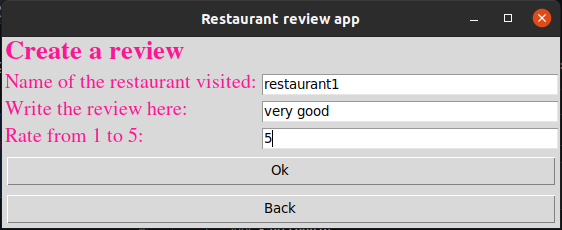
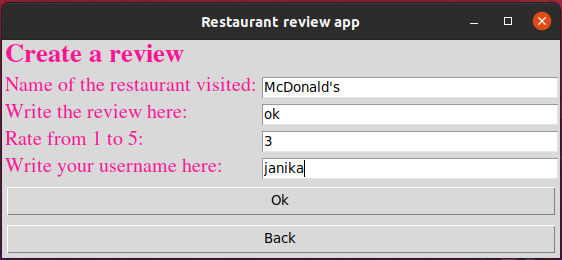
kuvia

Changed region(s): [[0.0, 0.0, 1.0, 1.0], [0.363, 0.0609, 0.6352, 0.1217]]

diff --git a/src/tests/test_services/test_service.py b/src/tests/test_services/test_service.py
@@ -7,6 +7,7 @@ from services.service import (
 )
 from entities.review import Review
 
+
 class FakeUserRepository:
     def __init__(self, users=None):
         self.users = users or []
@@ -31,6 +32,7 @@ class FakeUserRepository:
 
     def delete_all(self):
         self.users = []
+
 
 class FakeReviewRepository:
     def __init__(self, reviews=None):
@@ -65,7 +67,8 @@ class TestService(unittest.TestCase):
         )
 
         self.user_janika = User("janika", "abc123")
-        self.review_restaurant1 = Review("restaurant1", "nice", "3", self.user_janika)
+        self.review_restaurant1 = Review(
+            "restaurant1", "nice", "3", self.user_janika)
 
     def login_user(self, user):
         self.service.create_user(user.username, user.password)
@@ -142,6 +145,5 @@ class TestService(unittest.TestCase):
         self.service.create_review(review)
 
         reviews = self.service.get_all_reviews()
-
 
         self.assertNotEqual(reviews[0].rate, "16")

diff --git a/src/ui/reviews.py b/src/ui/reviews.py
@@ -27,7 +27,8 @@ class ReviewsView:
         self.no_of_reviews = 1
 
         for x in reviews:
-            self.tree.insert("", "end", iid=self.iid, text = self.no_of_reviews, values = (x.restaurant, x.review, x.rate, x.user))
+            self.tree.insert("", "end", iid=self.iid, text=self.no_of_reviews, values=(
+                x.restaurant, x.review, x.rate, x.user))
 
             self.iid = self.iid + 1
             self.no_of_reviews = self.no_of_reviews + 1
@@ -36,7 +37,7 @@ class ReviewsView:
         self._frame = ttk.Frame(master=self._root)
 
         label = ttk.Label(master=self._frame,
-                          text="Reviews of restaurants visited", foreground="deep pink", font=("Times 20 bold"))
+                          text="Reviews of restaurants", foreground="deep pink", font=("Times 20 bold"))
         label.grid(columnspan=2, sticky=constants.EW, padx=2, pady=2)
 
         button2 = ttk.Button(

diff --git a/src/ui/create_review.py b/src/ui/create_review.py
@@ -36,7 +36,8 @@ class CreateReviewview:
             empty.append(1)
 
         if user != SERVICE.get_current_user():
-            messagebox.showerror("username doesn't match", "Write the username you logged in with")
+            messagebox.showerror("username doesn't match",
+                                 "Write the username you logged in with")
 
         if rate not in rates:
             messagebox.showerror(
@@ -91,7 +92,7 @@ class CreateReviewview:
             constants.E, constants.W), padx=2, pady=2)
 
         user = ttk.Label(master=self._frame, text="Write your username here:",
-                           foreground="deep pink", font=("Times 15"))
+                         foreground="deep pink", font=("Times 15"))
         self._user_entry = ttk.Entry(master=self._frame)
 
         user.grid(padx=2, pady=2, sticky=(constants.W))

diff --git a/src/repositories/review_repository.py b/src/repositories/review_repository.py
@@ -15,6 +15,7 @@ def get_review_by_row(row):
 class ReviewRepository:
     """Tietokantaluokka arvosteluista.
     """
+
     def __init__(self, connection):
         """Luokan konstruktori.
 
@@ -36,7 +37,7 @@ class ReviewRepository:
 
         cursor.execute(
             "insert or ignore into reviews (restaurant, review, rate, user) values (?,?,?,?)",
-                       (review.restaurant, review.review, review.rate, review.user))
+            (review.restaurant, review.review, review.rate, review.user))
 
         self._connection.commit()
         return review
@@ -72,7 +73,6 @@ class ReviewRepository:
         )
         restaurant = cursor.fetchone()
         return get_review_by_row(restaurant)
-
 
     def find_reviews(self):
         """Hakee tietokannasta kaikki arvostelut.

diff --git a/src/services/service.py b/src/services/service.py
@@ -17,14 +17,12 @@ class InvalidCredentialsError(Exception):
     """
 
 
-
 class UsernameExistsError(Exception):
     """luokka, joka tuottaa virheen jos käyttäjätunnus on valmiiksi jo olemassa
 
     Args:
         Exception
     """
-
 
 
 class ReviewService:

diff --git a/src/tests/test_repositories/test_reviews.py b/src/tests/test_repositories/test_reviews.py
@@ -5,6 +5,7 @@ from repositories.user_repository import User_repository
 from entities.review import Review
 from entities.user import User
 
+
 class TestReviewRepository(unittest.TestCase):
     def setUp(self):
         review_repository.delete_reviews()
